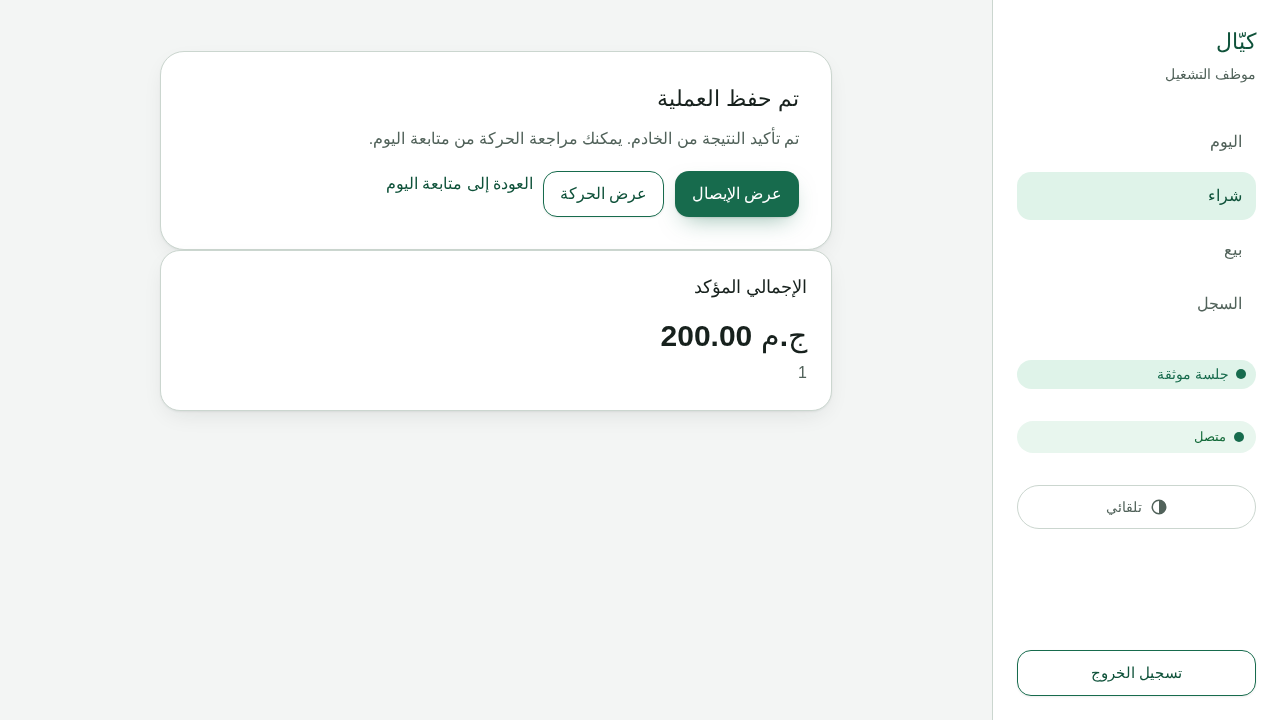
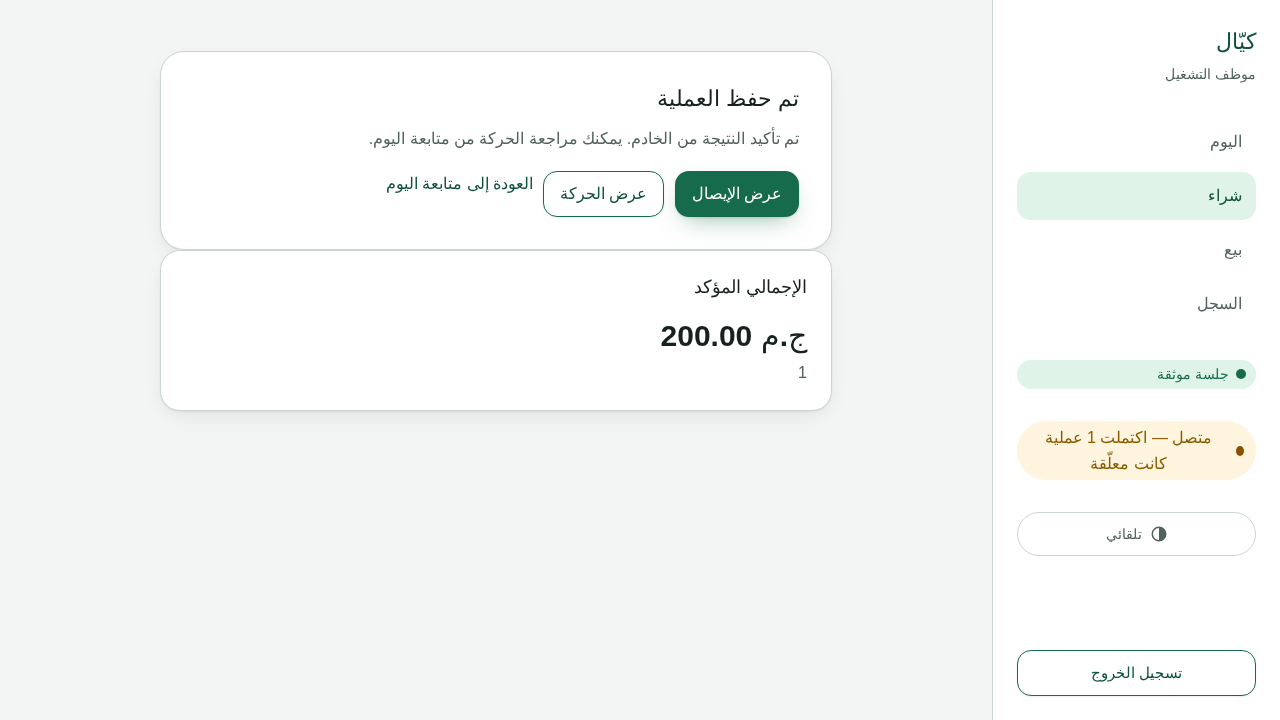
ci(gate): FAIL manifest للمرور الأول (full-vitest next-http flake + browser C3) + لقطات المتصفح المحدّثة

Changed region(s): [[0.7812, 0.5806, 1.0, 0.7639]]

diff --git a/ci/gate-results/2026-10-26T23-36-17Z-6ff2cee0-release/MANIFEST.md b/ci/gate-results/2026-10-26T23-36-17Z-6ff2cee0-release/MANIFEST.md
@@ -1,0 +1,29 @@
+# محضر بوابة محلية — 2026-10-26T23-36-17Z (وضع الإصدار)
+
+| الحقل | القيمة |
+|---|---|
+| commit | `6ff2cee0d3ec7df1e09e9f9d9ba5c7ee51615ef2` — شجرة نظيفة |
+| node | v20.20.2 |
+| npm | 10.8.2 |
+| نظام | Linux 6.1.158+ x86_64 · RAM 1983MB |
+| LD_LIBRARY_PATH | (empty) |
+| النمط | RELEASE صارم (لا تخطٍّ) |
+
+| الخطوة | الأمر | الخروج | المدة |
+|---|---|---|---|
+| typecheck | `npm run typecheck` | ✅ 0 | 3.0s |
+| guard-decimal | `npm run guard:decimal` | ❌ 1 | 0.2s |
+| test-unit-domain | `npm run test:unit` | ✅ 0 | 1.0s |
+| test-db-from-zero | `npm run test:db` | ✅ 0 | 24.5s |
+| test-rls | `npm run test:rls` | ✅ 0 | 4.2s |
+| test-auth | `npm run test:auth` | ✅ 0 | 3.6s |
+| test-atomicity | `npm run test:atomicity` | ✅ 0 | 4.1s |
+| test-ui-foundation | `npm run test:ui -- --exclude=tests/ui/operator-live-flow.test.tsx` | ✅ 0 | 27.9s |
+| test-e2e-day | `npx vitest run tests/e2e-day` | ✅ 0 | 3.9s |
+| test-routes-http | `npx vitest run tests/routes` | ✅ 0 | 21.5s |
+| test-ui-liveflow | `npx vitest run tests/ui/operator-live-flow.test.tsx` | ✅ 0 | 21.8s |
+| full-vitest | `npm test` | ❌ 1 | 236.6s |
+| browser-journey | `npx playwright test` | ❌ 1 | 68.1s |
+| production-build | `npm run build` | ✅ 0 | 6.4s |
+
+**النتيجة الإجمالية: ❌ GATE FAIL — سقطت خطوة منفّذة واحدة على الأقل**

diff --git a/ci/gate-results/2026-10-26T23-43-59Z-6ff2cee0-release/MANIFEST.md b/ci/gate-results/2026-10-26T23-43-59Z-6ff2cee0-release/MANIFEST.md
@@ -1,0 +1,16 @@
+# محضر بوابة محلية — 2026-10-26T23-43-59Z (وضع الإصدار)
+
+| الحقل | القيمة |
+|---|---|
+| commit | `6ff2cee0d3ec7df1e09e9f9d9ba5c7ee51615ef2` — شجرة غير نظيفة |
+| node | v20.20.2 |
+| npm | 10.8.2 |
+| نظام | Linux 6.1.158+ x86_64 · RAM 1983MB |
+| LD_LIBRARY_PATH | (empty) |
+| النمط | RELEASE صارم (لا تخطٍّ) |
+
+| الخطوة | الأمر | الخروج | المدة |
+|---|---|---|---|
+| — | لم يُنفّذ أي فحص | ⛔ | — |
+
+**النتيجة الإجمالية: ⛔ BLOCKED — وضع الإصدار الصارم رفض التشغيل: شجرة العمل غير نظيفة**
